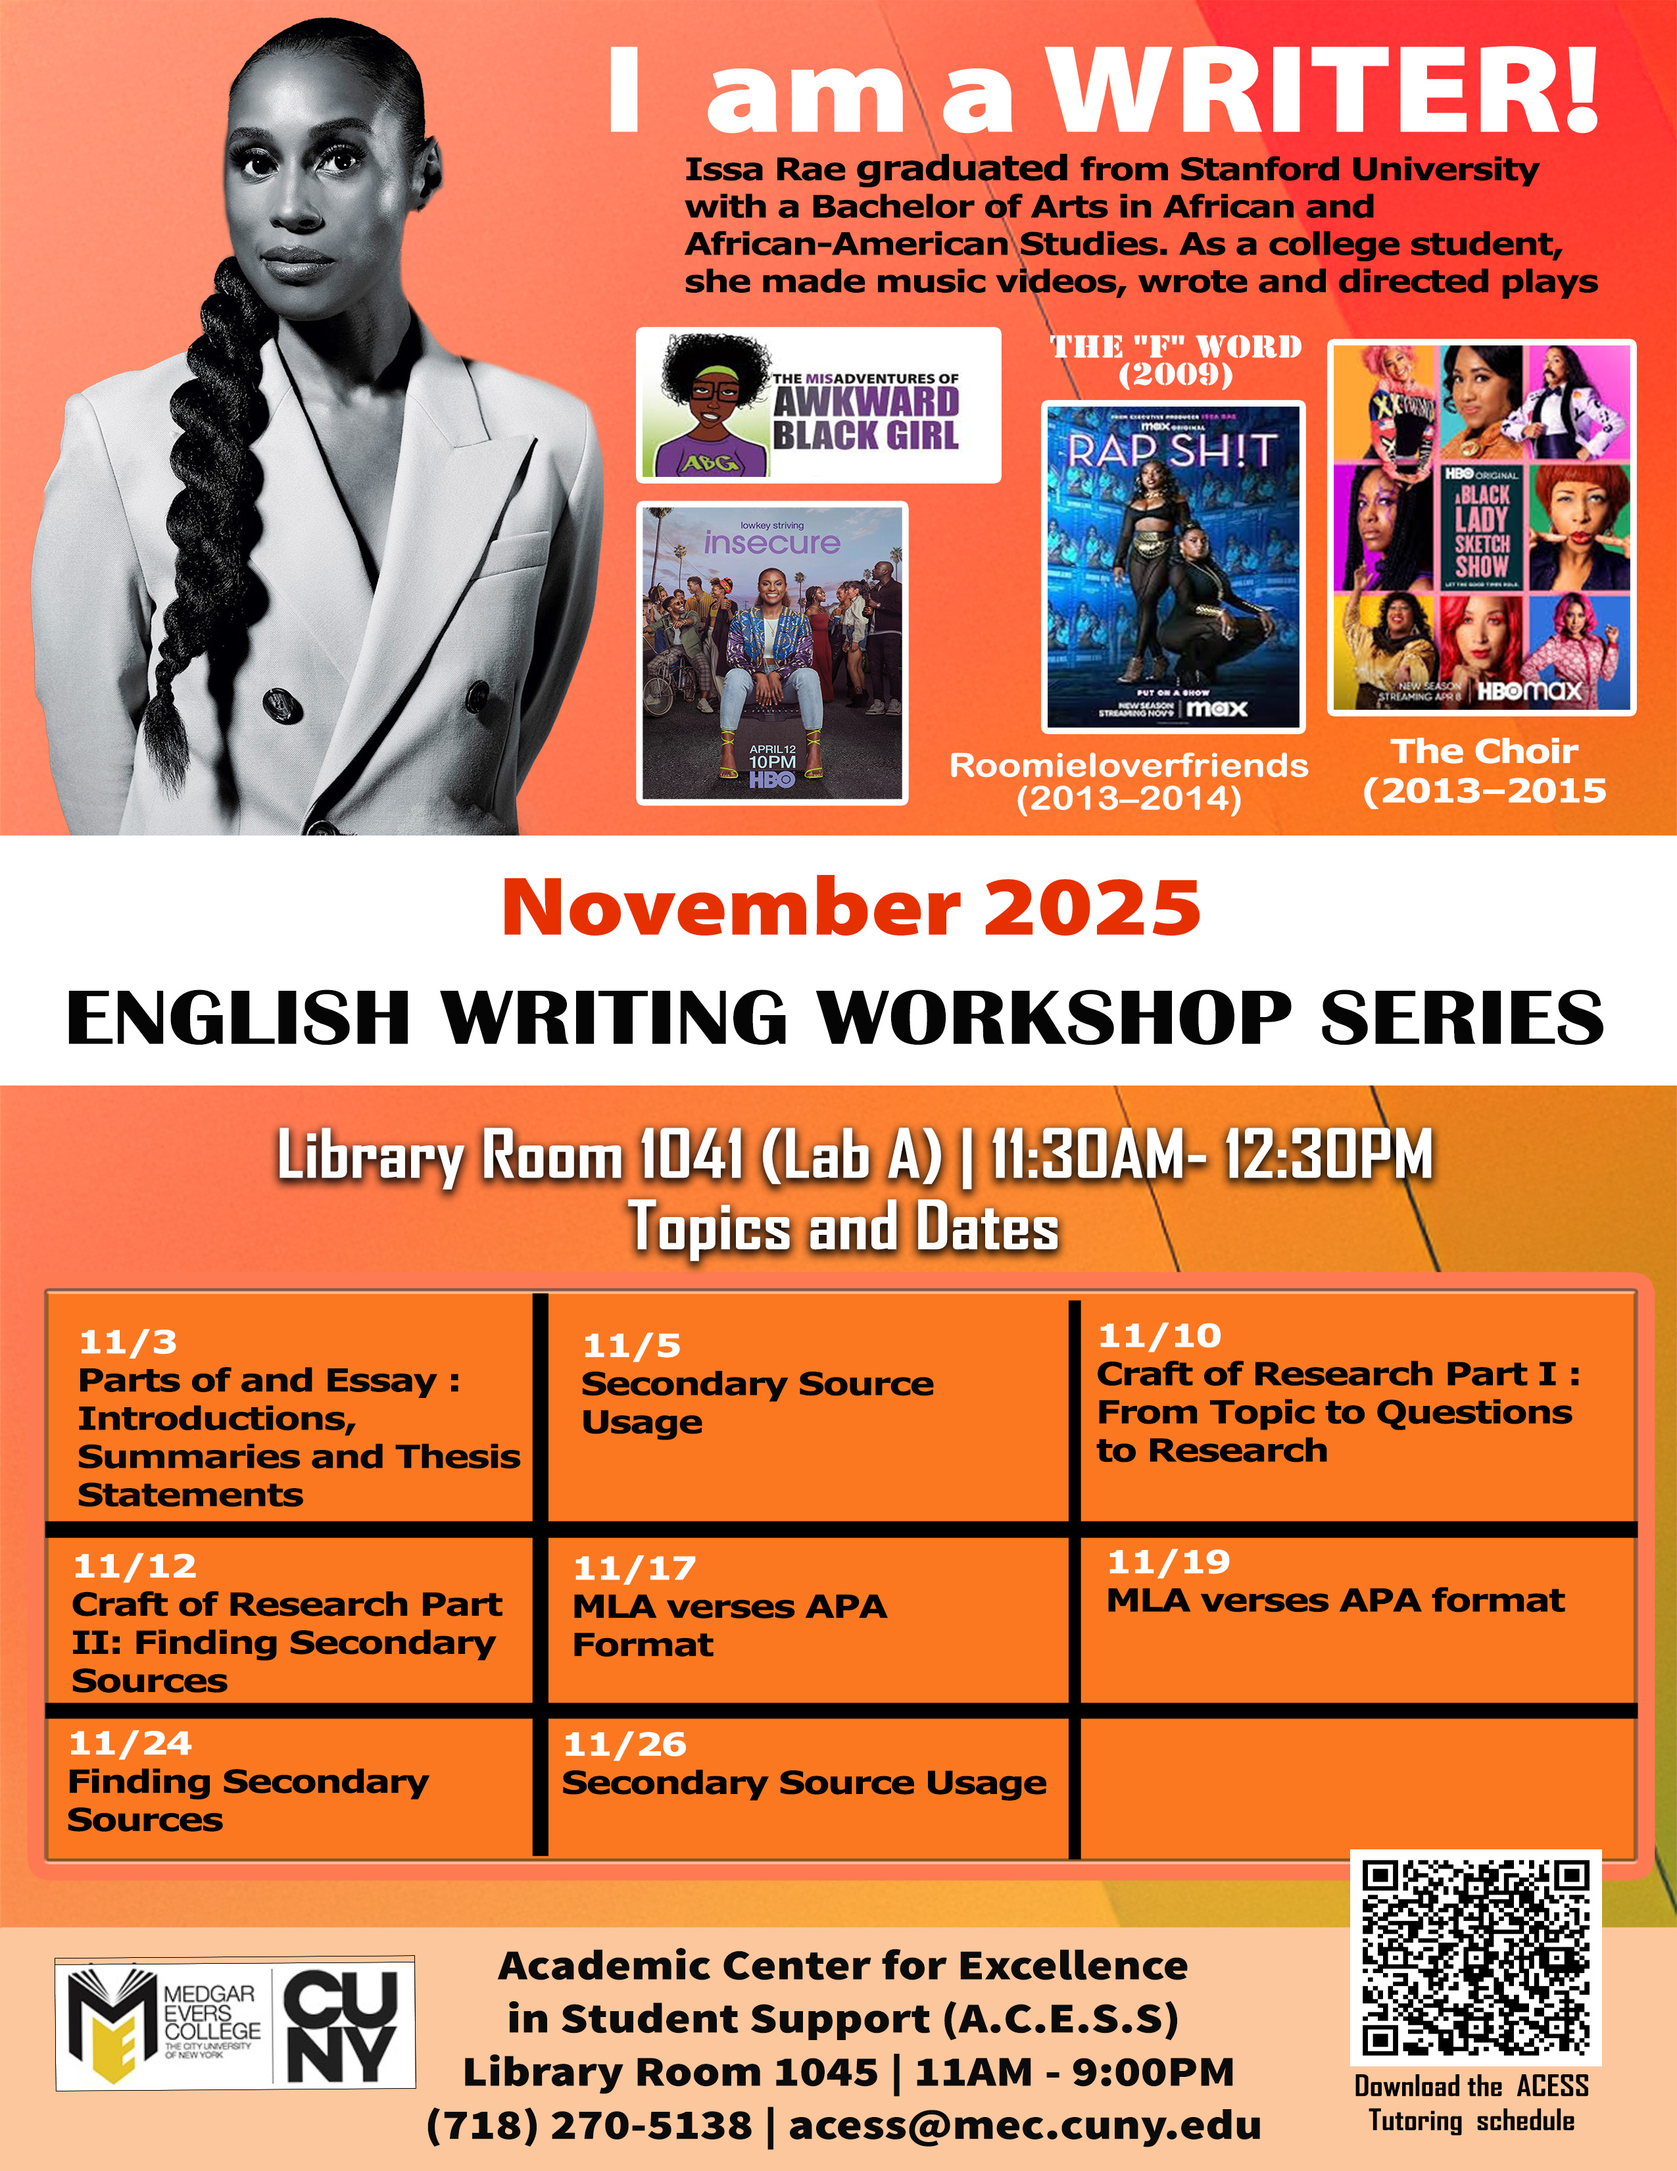
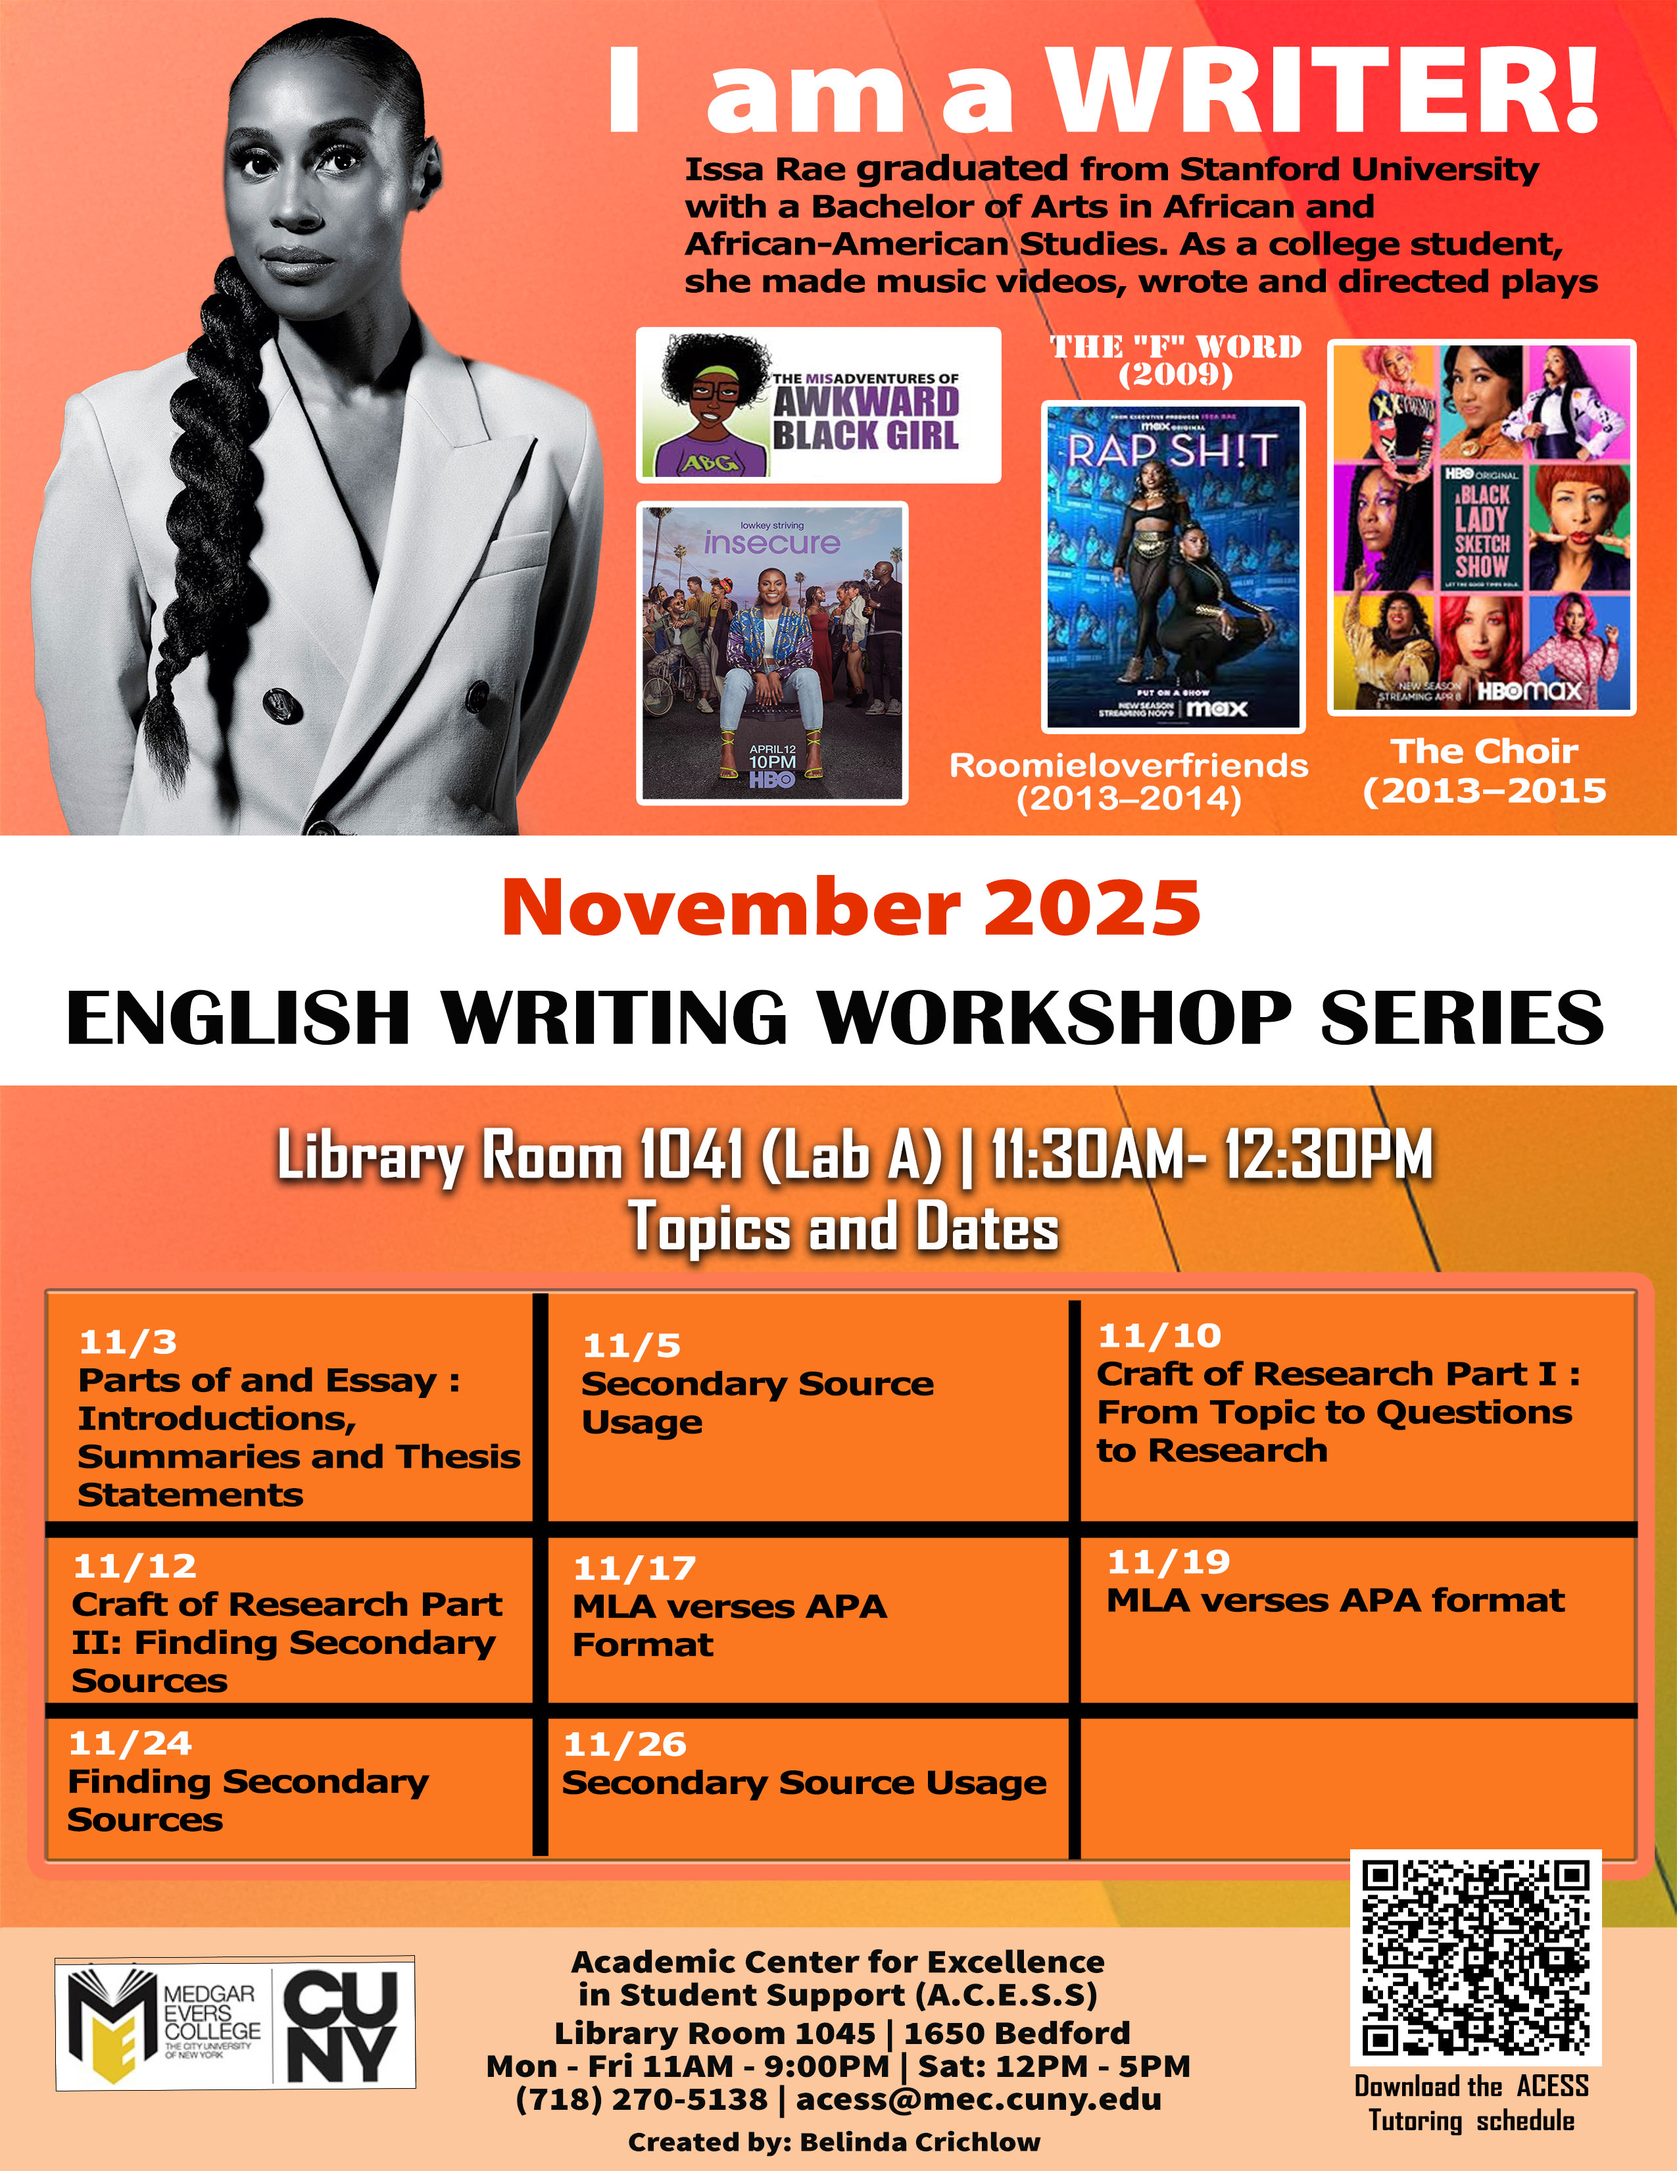
Renamed some images and edited the downloafd of files

Changed region(s): [[0.2478, 0.8739, 0.7435, 0.9988]]

diff --git a/index.html b/index.html
@@ -20,69 +20,82 @@
             <!--------------Blurb------------------------->
 
         <section id="blurb">
-            <h2>Welcome to ACESS Tutoring Services!</h2>
-            <p>Get the support you need to succeed! Our tutoring services are here to help you master challenging subjects, build confidence, and achieve your academic goals. Whether you need one-on-one help or group study sessions, we’ve got you covered. You can visit ACESS and get a same day appointment, <a href="https://www.mec.cuny.edu/academic-affairs/navigate/">download navigate360</a> and schedule an in-app appointment, or schedule a tutoring appointment online </p>
+            <h2 class="">Welcome to ACESS Tutoring Services!</h2>
+            <p>Get the support you need to succeed! Our tutoring services are here to help you <span>master challenging subjects</span>, build confidence, and <span>achieve your academic goals</span>. Whether you need one-on-one help or group study sessions, <span>we’ve got you covered</span>. You can <span>walk-in ACESS and get a same day appointment</span>, <a href="https://www.mec.cuny.edu/academic-affairs/navigate/"><span>download navigate360</span></a> and schedule an in-app appointment, or schedule a tutoring appointment online. </p>
         </section>
 
     <!--------------Activities------------------------->
 
+
         <section id="workshops" class="container-fluid" >
+
+            <h2 style="text-align: center;">Tutuoring and Student Success Services</h2> 
+<p style="text-align: center;">Click on image to get a larger view</p>
+
            <div class="workshops">
                 <div class="column card"  style="width: 18rem;">
-                    <a href="images/AccessFSchedule-1.jpg" target="_blank" rel="noopener noreferrer">
+                    <a href="files/Tutor Schedule Fall 2025.pdf">
                         <img src="images/AccessFSchedule-1.jpg" class="card-img-top img-fluid rounded float-start ratio ratio-16x9" alt="ACESS Fall tutoring Schedule">
                     </a>
                     <div class="card-body">
                         <h5 class="card-title">ACESS Fall 2025 Tutoring Schedule</h5>
-                        <p class="card-text">Some quick example text to build on the card title and make up the bulk of the card's content.</p>
-                        <a href="#" class="btn bg-warning">Download Tutoring Schedule</a>
+                        <p class="card-text">Get free tutoring, homework help, and academic support all semester long. Walk in, sign up, and take charge of your academic success!.</p>
+                        <a href="files/Tutor Schedule Fall 2025.pdf" class="btn bg-warning">Download Tutoring Schedule</a>
                     </div> 
                 </div>
 
                 <div class="column card" style="width: 18rem;">
-                    <a href="images/Nov2025_EWS_8.5x11.jpg" target="_blank" rel="noopener noreferrer">
+                    <a href="images/Nov2025_EWS_8.5x11.jpg">
                         <img src="images/Nov2025_EWS_8.5x11.jpg" class="card-img-top img-fluid rounded float-start ratio ratio-16x9" alt="English Writing Series">
                     </a>
                     <div class="card-body">
                         <h5 class="card-title">Fall 2025 English Writing Workskops</h5>
-                        <p class="card-text">Some quick example text to build on the card title and make up the bulk of the card's content.</p>
-                        <a href="images/Nov2025_EWS_8.5x11.jpg" class="btn bg-warning">Download Schedule</a>
+                        <p class="card-text">Attend the ACESS English Writing Workshops to strengthen your writing skills for any class. Writing opens many doors.</p>
+                        <a href="images/Nov-25ExamPrepWkshp.jpg" class="btn bg-warning">Download The Flyer</a>
                     </div> 
                 </div>
 
                 <div class=" column card" style="width: 18rem;"> 
-                    <img src="images/Nov-25 ExamPrepWkshp8.5x11.jpg" class="card-img-top img-fluid img-fluid rounded float-start ratio ratio-16x9" alt="..."> 
+                    <a href="images/Nov-25ExamPrepWkshp.jpg">
+                        <img src="images/Nov-25ExamPrepWkshp.jpg" class="card-img-top img-fluid img-fluid rounded float-start ratio ratio-16x9" alt="Academic Counseling Exam Prep Workshops"> 
+                    </a>
                     <div class="card-body">
                         <h5 class="card-title">Fall 2025 Academic Counseling Workshops</h5>
-                        <p class="card-text">Some quick example text to build on the card title and make up the bulk of the card's content.</p>
-                        <a href="images/Nov-25 ExamPrepWkshp8.5x11.jpg" class="btn bg-warning">Download Schedule</a>
+                        <p class="card-text">Build your path to success! Join our Academic Counseling Workshops to set goals, stay focused, and reach your academic potential. </p>
+                        <a href="images/" class="btn bg-warning">Download The Flyer</a>
                     </div> 
                 </div>
 
                 <div class=" column card" style="width: 18rem;"> 
-                    <img src="images/NursingPrepFall2025.jpg" class="card-img-top img-fluid rounded float-start ratio ratio-16x9" alt="..."> 
+                    <a href="images/NursingPrepFall2025.jpg">    
+                        <img src="images/NursingPrepFall2025.jpg" class="card-img-top img-fluid rounded float-start ratio ratio-16x9" alt="..."> 
+                    </a>
                     <div class="card-body">
                         <h5 class="card-title">Nursing Pre-Entrance Exam Prep</h5>
-                        <p class="card-text">Some quick example text to build on the card title and make up the bulk of the card's content.</p>
+                        <p class="card-text">Get exam-ready! Join our Nursing Pre-Entrance Exam Prep sessions to build confidence, sharpen skills, and boost your test performance.</p>
                         <a href="images/NursingPrepFall2025.jpg" class="btn bg-warning">Download The Flyer</a>
                     </div> 
                 </div>
 
                 <div class=" column card" style="width: 18rem;">
-                        <img src="images/Fall 2025 cram  jam 8.5x11.jpg" class="card-img-top img-fluid img-fluid rounded float-start ratio ratio-16x9" alt="..."> 
+                        <a href="images/Fall2025cramjam.jpg">
+                            <img src="images/Fall2025cramjam.jpg" class="card-img-top img-fluid img-fluid rounded float-start ratio ratio-16x9" alt="..."> 
+                        </a>
                         <div class="card-body">
                             <h5 class="card-title">Fridays Cram Jams</h5>
-                            <p class="card-text"> ASAP and ACESS Some quick example text to build on the card title and make up the bulk of the card's content.</p>
-                            <a href="images/Fall 2025 cram  jam 8.5x11.jpg" class="btn bg-warning">Download The Flyer</a>
+                            <p class="card-text">Power up your Fridays at Cram Jam! Enjoy tutoring, study groups, and snacks while catching up on assignments and preparing for exams in a fun, supportive space.</p>
+                            <a href="images/Fall2025cramjam.jpg" class="btn bg-warning">Download The Flyer</a>
                         </div> 
                     </div>
 
                     
                      <div class=" column card" style="width: 18rem;">
-                        <img src="images/TUTOR.COM_allBLK_8x11 copy.jpg" class="card-img-top img-fluid img-fluid rounded float-start ratio ratio-16x9" alt="..."> 
+                        <a href="images/TUTOR.COM_allBLK_8x11 copy.jpg">
+                            <img src="images/TUTOR.COM_allBLK_8x11 copy.jpg" class="card-img-top img-fluid img-fluid rounded float-start ratio ratio-16x9" alt="..."> 
+                        </a>
                         <div class="card-body">
                             <h5 class="card-title" style="text-align: center  !important;">Tutor.com</h5>
-                            <p class="card-text"> Free 24/7 tutoring for all Medgar students</p>
+                            <p class="card-text">Get 24/7 online tutoring in many subjects. Connect with expert tutors, get feedback, and boost your confidence—on your schedule!</p>                            
                             <a href="images/TUTOR.COM_allBLK_8x11 copy.jpg" class="btn bg-warning">Download  the flyer</a>
                         </div> 
                     </div>
@@ -103,8 +116,8 @@
     
  <footer class="container-footer">
         <div class="column">
-            <h5>Contact Us</h5>
-            <div id="time">Monday - Friday:  11:00AM - 9:00PM</div>
+            <h5>A.C.E.S.S</h5>
+            <div id="time">Mon - Fri: 11:00AM - 9:00PM | Sat: 12PM - 5PM</div>
             <div id="location">Library Room: 1045 | 1650 Bedford</div>
             <div id="email">
                 Email: <a href="mailto:acess@mec.cuny.edu">acess@mec.cuny.edu</a> <br> Phone: <a href="tel:+718-270-5138">(718)270-5138</a></p>
@@ -141,7 +154,4 @@
 
     
 </body>
-</html>
-</body>
-
 </html>

diff --git a/css/acessStyles.css b/css/acessStyles.css
@@ -14,7 +14,7 @@
     gap: 3rem;
     margin: 0 auto;  
 }
-.workshop .card{
+.workshops .card{
     display: box !important;
     box-sizing: border-box;
     flex: 0 0 18rem !important; 
@@ -23,8 +23,11 @@
 }
 .card-title, .cardbody .btn{
     text-align: center !important;
+    align-items: center !important;
     
 }
+
+
  footer{
      min-height: 40vh;
  }
@@ -32,10 +35,15 @@
 #blurb{
     width:60% !important;
     margin:auto;
-     text-align: center;
-     padding: 3rem;
+    text-align: center;
+    padding: 3rem;
+    font-size: 1..1em;
+    color: #311c03;
 }
-
+span{
+    font-weight: bold;
+    font-size: 1.25em;
+}
 
 
 footer .card {
